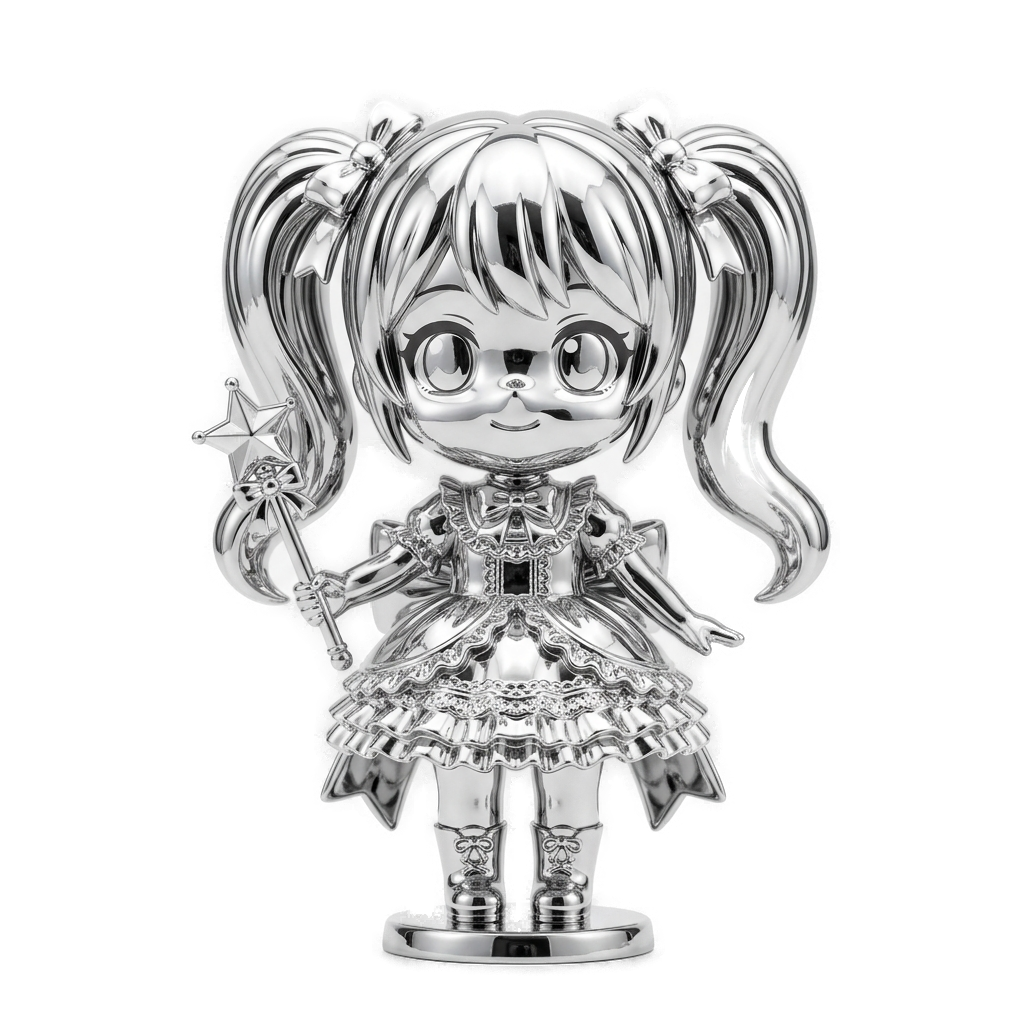
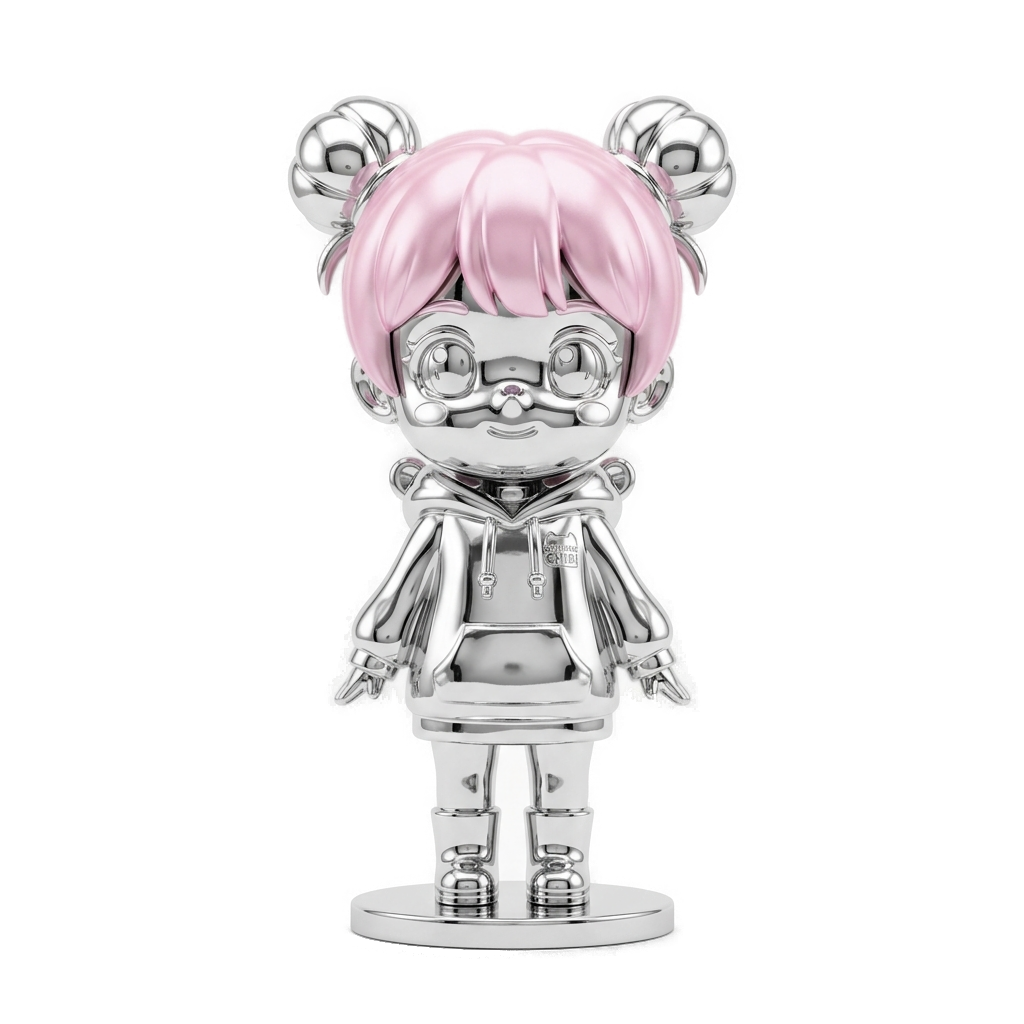
feat: replace pink doll with a brand new pink girl doll
- Generated new pink girl doll (pastel pink long hair with pigtail buns, pink hoodie dress)
- Generated matching Gold and Silver premium variants of the new pink girl doll
- Processed all three variants using rembg with alpha matting and erosion
- Overwrote fig3.png, fig3_gold.png, and fig3_silver.png
- Added process_new_pink.py script to repository

Changed region(s): [[0.1875, 0.0938, 0.8125, 0.9688]]

diff --git a/process_new_pink.py b/process_new_pink.py
@@ -1,0 +1,46 @@
+import os
+import sys
+from pathlib import Path
+from rembg import remove
+from PIL import Image
+
+sys.stdout.reconfigure(encoding="utf-8")
+
+public = Path(__file__).parent / "public"
+tmpdir = Path(os.environ.get("TEMP", r"C:\Temp")) / "toonhub"
+tmpdir.mkdir(parents=True, exist_ok=True)
+
+sources = {
+    "fig3.png":        public / "fig3_new_raw.png",
+    "fig3_gold.png":   public / "fig3_gold_new_raw.png",
+    "fig3_silver.png": public / "fig3_silver_new_raw.png",
+}
+
+print("Running rembg on new pink girl dolls...\n")
+
+for dest_name, src_path in sources.items():
+    print(f"  Segmenting {src_path.name} -> {dest_name} ...", end=" ", flush=True)
+    
+    input_data = src_path.read_bytes()
+    
+    # Process with alpha matting and erosion to keep boundaries sharp and clean
+    output_data = remove(
+        input_data,
+        alpha_matting=True,
+        alpha_matting_foreground_threshold=240,
+        alpha_matting_background_threshold=10,
+        alpha_matting_erode_size=15
+    )
+    
+    # Write to temp first
+    tmp_out = tmpdir / dest_name
+    tmp_out.write_bytes(output_data)
+    
+    # Verify PNG
+    img = Image.open(tmp_out)
+    print(f"OK {img.width}x{img.height} RGBA")
+    
+    # Write to public/
+    (public / dest_name).write_bytes(output_data)
+
+print("\nDone! New pink girl dolls are transparent and ready.")